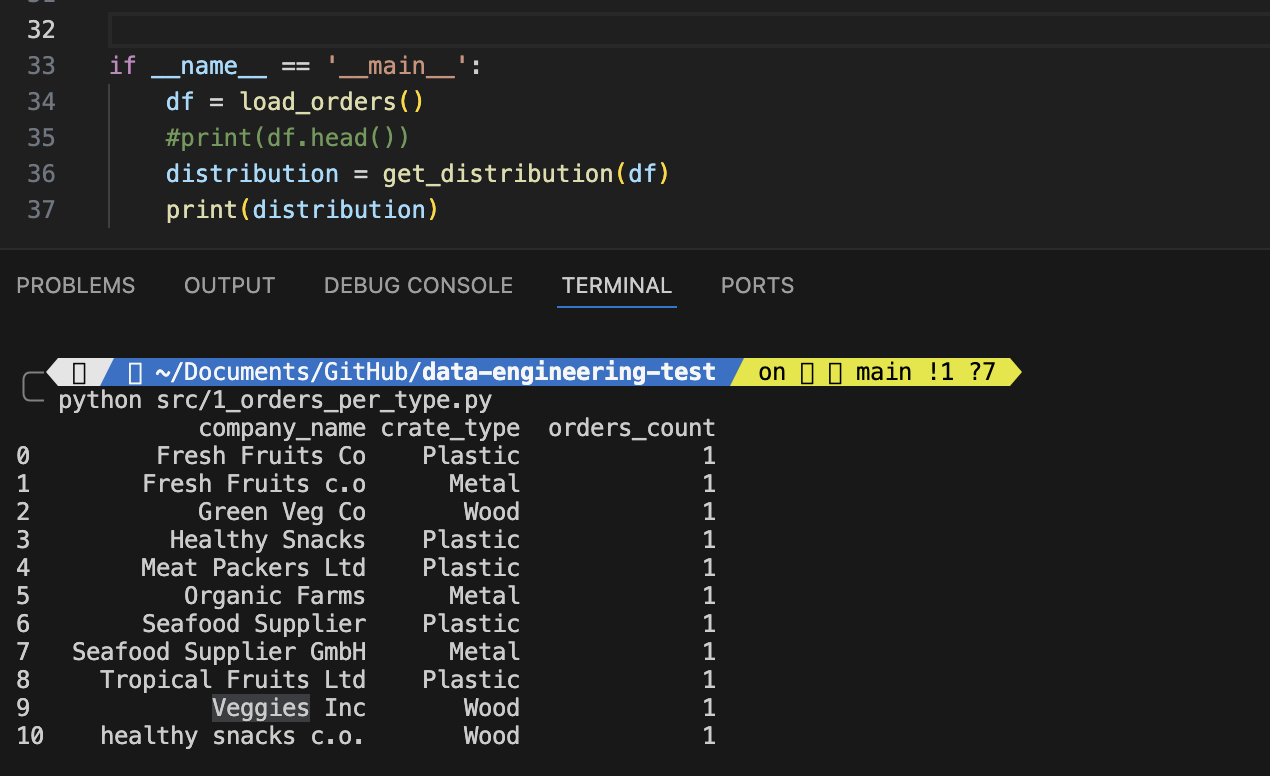
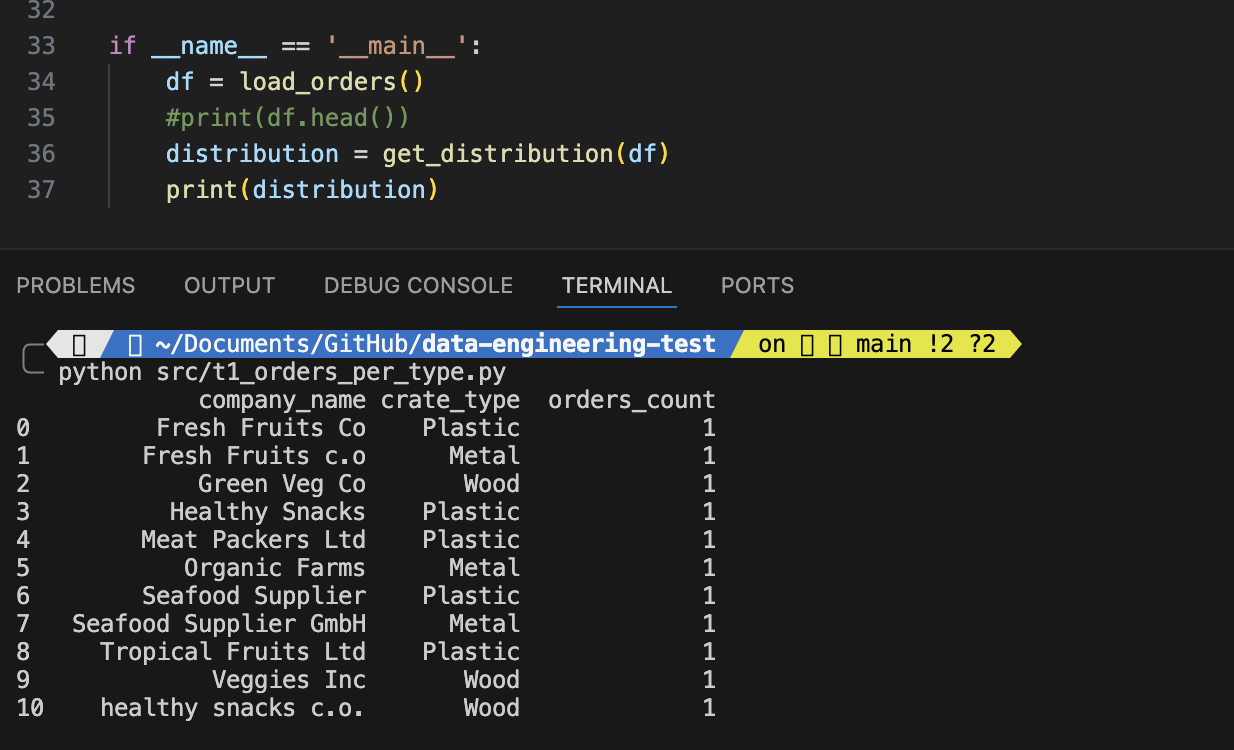
solve full name

diff --git a/src/t2_orders_full_name.py b/src/t2_orders_full_name.py
@@ -1,0 +1,34 @@
+from t1_orders_per_type import load_orders
+import json
+
+# Contact_full_name = concat (name + surname)
+def get_contact_full_name(contact_data):
+    try:
+        # Replace double double-quotes with single double-quotes
+        contact_data = contact_data.replace('""', '"')
+        # Parse the JSON string
+        contact_list = json.loads(contact_data)
+        # If not empty
+        if contact_list and len(contact_list) > 0:
+            contact = contact_list[0]  
+            contact_name = contact.get('contact_name', '').strip()
+            contact_surname = contact.get('contact_surname', '').strip()
+            if contact_name and contact_surname:
+                return f"{contact_name} {contact_surname}"
+    except Exception as e:
+        pass
+    # Information not available = return placeholder
+    return "John Doe"
+
+if __name__ == '__main__':
+    # Use load from t1
+    df = load_orders()
+    
+    # Apply function contact_full_name
+    df['contact_full_name'] = df['contact_data'].apply(get_contact_full_name)
+
+    # Only return required columns
+    df_1 = df[['order_id', 'contact_full_name']]
+
+    # Display the result
+    print(df_1)

diff --git a/README.md b/README.md
@@ -5,6 +5,13 @@ To start we can create a new folder in our local machine, to clone the source re
   <img src=".images/github_clone.png" alt="github clone terminal" width="50%">
 </p>
 
+After that, I remove the Github origin and add my new origin, a new repository in my Github account, to save the challenge solution.
+
+```
+$ git remote remove origin 
+$ git remote add origin https://github.com/rsradulescu/IFCO-data-engineering-solution-test.git        
+```
+
 In VSCode, open terminal and:
 - Create a new README file and updated.
 - Configuring the Python virtual environment, with the latest stable python version (V3.12 at October 16)
@@ -25,8 +32,8 @@ $ source venv/bin/activate
 $ pip install -r requirements.txt
 ```
 
-
 - Create the folders needed to organice the process: src folder for the python code and test folder for the test python code.
+
 ```
 $ mkdir test
 $ mkdir scr
@@ -38,7 +45,7 @@ NOTE: I decided to create one different python file for each requirement in the 
 
 ### Test 1: Distribution of Crate Type per Company
 
-- Create the 1_orders_per_type.py file
+- Create the t1_orders_per_type.py file.
 - Define 2 main functions: 
 - - The first one to load the df with the content of orders.csv
 - - The second one to get the distribution number group by company name and box type.
@@ -48,7 +55,16 @@ NOTE: I decided to create one different python file for each requirement in the 
   <img src=".images/1-get_distribution.png" alt="execute distribution python code" width="50%">
 </p>
 
+### Test 2: DataFrame of Orders with Full Name of the Contact
+- Import first file we created before to use the load function.
+- Create a function to receive a json object with contact data. Extract the name and subname and return the concatenation.
+- If some of these values are missing, or the contact_data is empty, return the placeholder "John Doe".
+- Apply the previous function to every row in the df.
+- To test this code I added the condition "if __name__ == __main__"
 
+<p align="center">
+  <img src=".images/2-get_fullname.png" alt="get order id and full name python code" width="50%">
+</p>
 
 
 
@@ -56,4 +72,5 @@ NOTE: I decided to create one different python file for each requirement in the 
 
 ---------
 Add quality scripts
-: some of the company names seems same, I consider to get similar name as the same company, with a new column name.
+- some of the company names seems same, I consider to get similar name as the same company, with a new column name.
+- modeling
